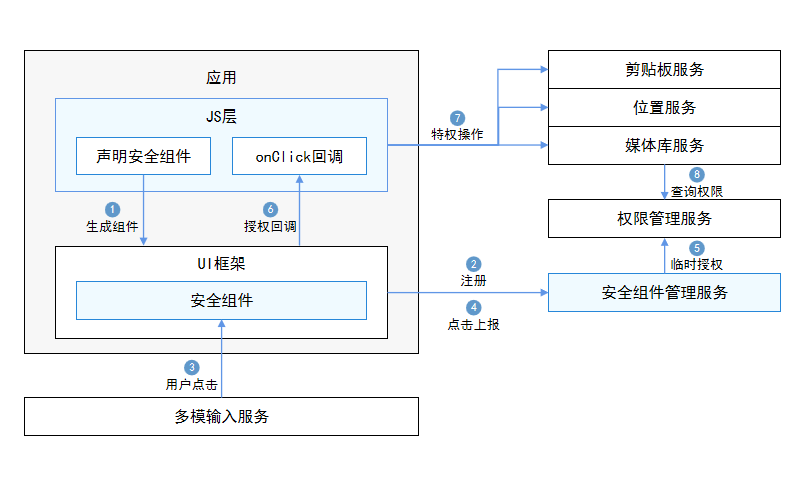
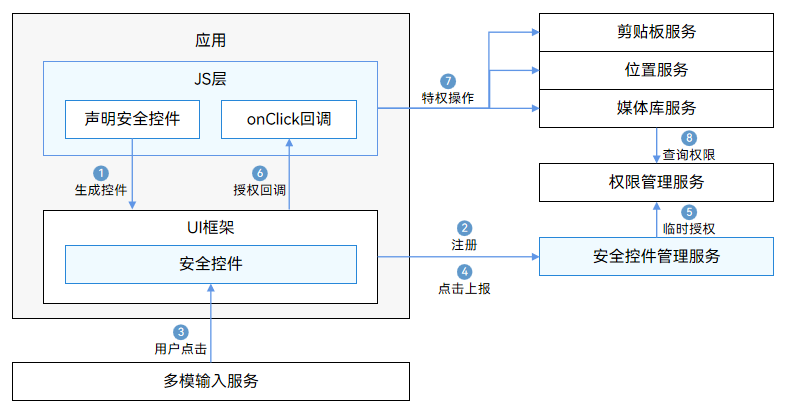
修改README，使用安全控件作为专有名词 Signed-off-by: libing23 <libing23@huawei.com>

diff --git a/README_zh.md b/README_zh.md
@@ -1,22 +1,22 @@
-# 安全组件管理服务
+# 安全控件管理服务
 
 ## 简介
 
-安全控件特性，提供了一组称为“安全组件”的ArkUI组件，类似Button(按钮)、Text(文本)提供给开发者集成到自己应用界面中。
-当用户点击了这类组件后，应用将被授予对应的临时授权，而不需要额外申请权限即可访问用户隐私数据，达到减少授权弹窗对用户的干扰。
+安全控件是OpenHarmony提供的一组系统实现的ArkUI组件，类似Button(按钮)、Text(文本)提供给开发者集成到自己应用界面中。
+当用户点击了这类控件后，应用将被授予对应的临时授权，而不需要额外申请权限即可访问用户隐私数据，达到减少授权弹窗对用户的干扰。
 
-例如：应用开发者可以在应用中集成位置组件(LocationButton)，这样就不用申请精准定位权限，当用户点击该组件时，应用可以获得前台情况下的精准定位临时权限，继而调用位置服务接口获取位置信息。
+例如：应用开发者可以在应用中集成位置控件(LocationButton)，这样就不用申请精准定位权限，当用户点击该控件时，应用可以获得前台情况下的精准定位临时权限，继而调用位置服务接口获取位置信息。
 
 安全控件特性原理图如下所示：
 ![zh-cn_image_0000001566651300](figures/zh-cn_image_0000001566651300.png)
 
-由安全组件UX实现、安全组件管理服务组成。UX实现集成在ArkUI框架中，负责提供组件的具体绘制; 安全组件管理服务负责安全组件的管理、合法性检查、临时权限的授予等。
+由安全控件UX实现、安全控件管理服务组成。UX实现集成在ArkUI框架中，负责提供控件的具体绘制; 安全控件管理服务负责安全控件的管理、合法性检查、临时权限的授予等。
 
-安全组件管理服务主要提供如下功能：
+安全控件管理服务主要提供如下功能：
 
-- 提供应用安全组件的注册、临时授权、取消注册等Native接口实现。
+- 提供应用安全控件的注册、临时授权、取消注册等Native接口实现。
 
-- 负责安全组件的合法性检查，只有合法的安全组件才能授权成功。
+- 负责安全控件的合法性检查，只有合法的安全控件才能授权成功。
 
 - 提供媒体库服务查询临时授权的Native接口实现。
 
@@ -30,14 +30,14 @@
 ├── frameworks                  # 框架层，基础功能代码存放目录
 │   ├── common                  # 框架公共代码存放目录
 │   ├── enhance_adapter         # 能力增强适配代码存放目录
-│   └── security_component      # 安全组件服务框架代码存放目录
+│   └── security_component      # 安全控件服务框架代码存放目录
 ├── interfaces                  # 接口层
 │   └── inner_api               # 内部接口层
-│       ├── enhance_kits        # 安全组件配置接口代码存放目录
-│       └── security_component  # 安全组件服务接口层代码存放目录
+│       ├── enhance_kits        # 安全控件配置接口代码存放目录
+│       └── security_component  # 安全控件服务接口层代码存放目录
 └── services                    # 服务层
     └── security_component_service/sa
-        └── sa_main             # 安全组件服务侧代码存放目录
+        └── sa_main             # 安全控件服务侧代码存放目录
 
 ```
 
@@ -46,13 +46,13 @@
 
 | **接口申明** | **接口描述** |
 | --- | --- |
-| int32_t RegisterSecurityComponent(SecCompType type, const std::string& componentInfo, int32_t& scId); | 注册安全组件 |
-| int32_t UpdateSecurityComponent(int32_t scId, const std::string& componentInfo); | 更新安全组件信息 |
-| int32_t UnregisterSecurityComponent(int32_t scId); | 取消注册安全组件 |
+| int32_t RegisterSecurityComponent(SecCompType type, const std::string& componentInfo, int32_t& scId); | 注册安全控件 |
+| int32_t UpdateSecurityComponent(int32_t scId, const std::string& componentInfo); | 更新安全控件信息 |
+| int32_t UnregisterSecurityComponent(int32_t scId); | 取消注册安全控件 |
 | int32_t ReportSecurityComponentClickEvent(int32_t scId, const std::string& componentInfo, const SecCompClickEvent& touchInfo, sptr&lt;IRemoteObject&gt; callerToken); | 上报点击事件，申请临时授权 |
-| int32_t SetEnhanceCfg(uint8_t* cfg, uint32_t cfgLen); | 设置安全组件增强的配置，供多模服务使用 |
+| int32_t SetEnhanceCfg(uint8_t* cfg, uint32_t cfgLen); | 设置安全控件增强的配置，供多模服务使用 |
 | int32_t GetPointerEventEnhanceData(void* data, uint32_t dataLen, uint8_t* enhanceData, uint32_t& enHancedataLen); | 获取点击事件的安全增强数据，供多模服务使用 |
-| bool ReduceAfterVerifySavePermission(AccessToken::AccessTokenID tokenId); | 校验后取消保存组件权限 |
+| bool ReduceAfterVerifySavePermission(AccessToken::AccessTokenID tokenId); | 校验后取消保存控件权限 |
 
 ## 相关仓
 
